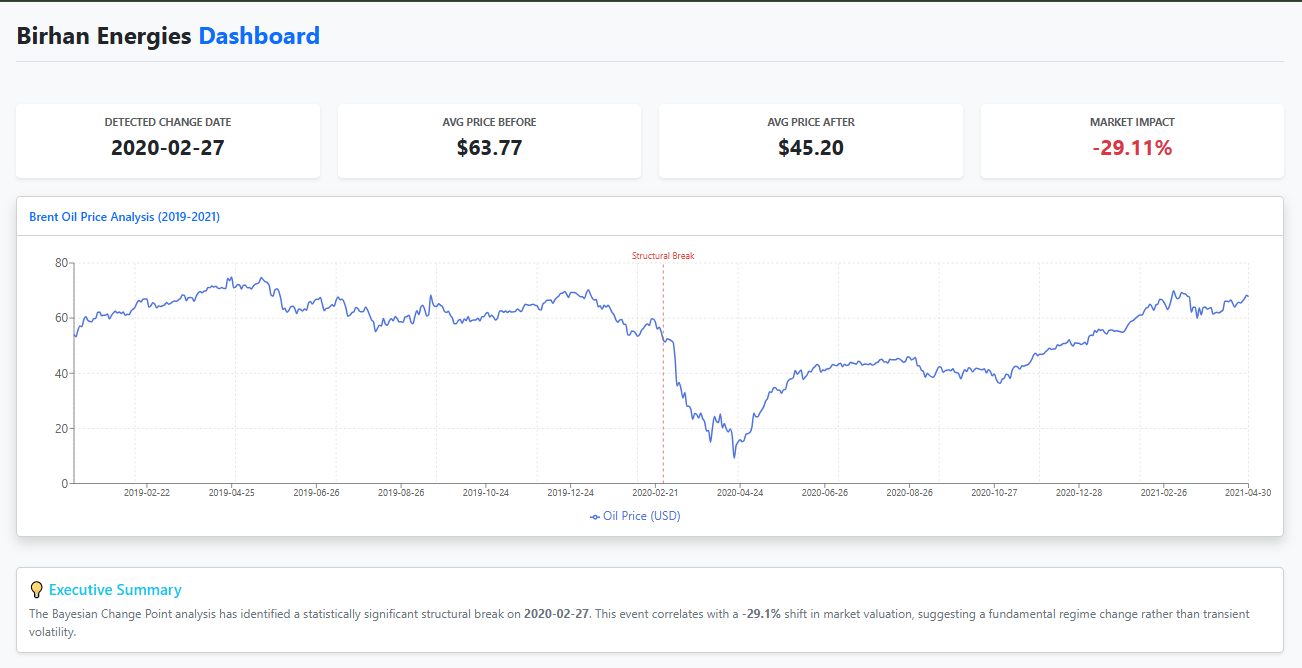
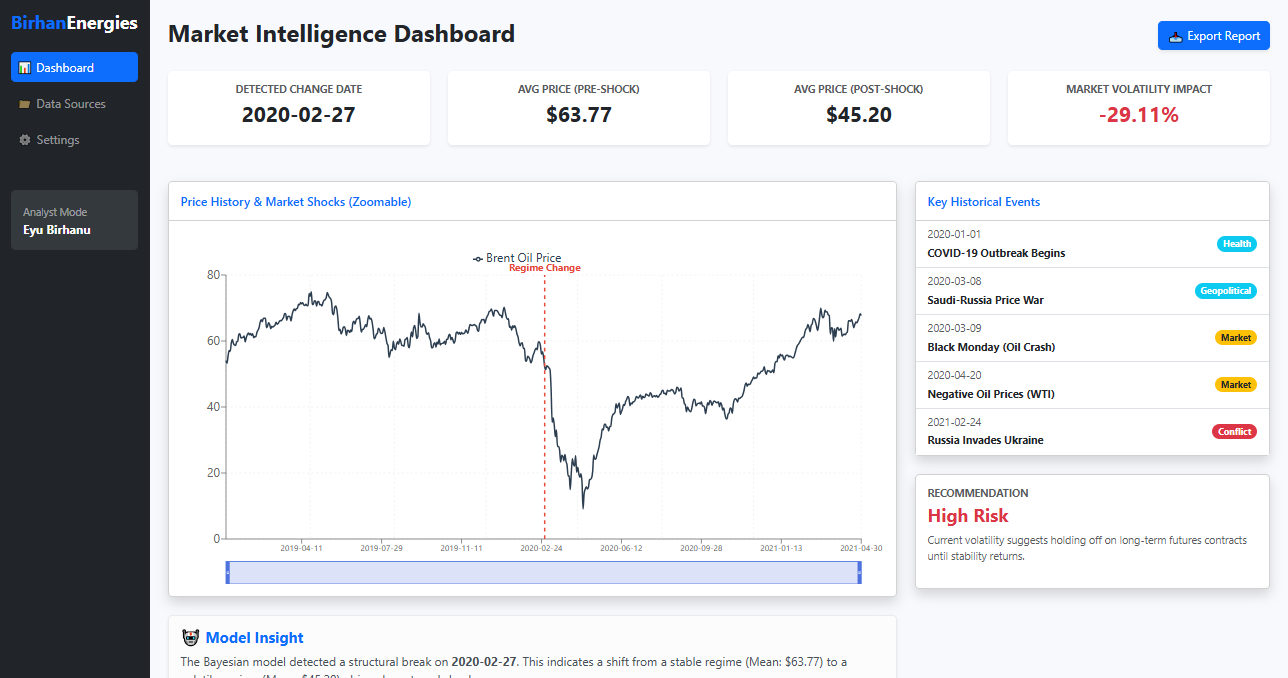
update on dashboard ui

diff --git a/dashboard/frontend/src/App.js b/dashboard/frontend/src/App.js
@@ -2,9 +2,10 @@ import React, { useEffect, useState } from 'react';
 import axios from 'axios';
 import 'bootstrap/dist/css/bootstrap.min.css';
 
-// Import our new components
+// Import Components
 import KpiCard from './components/KpiCard';
 import PriceChart from './components/PriceChart';
+import EventList from './components/EventList';
 
 function App() {
   const [prices, setPrices] = useState([]);
@@ -15,84 +16,93 @@ function App() {
   useEffect(() => {
     const fetchData = async () => {
       try {
-        // Fetch both endpoints in parallel
         const [priceRes, metricRes] = await Promise.all([
           axios.get('http://127.0.0.1:5000/api/data'),
           axios.get('http://127.0.0.1:5000/api/metrics')
         ]);
-
         setPrices(priceRes.data);
         setMetrics(metricRes.data);
         setLoading(false);
       } catch (err) {
         console.error("API Error:", err);
-        setError("Failed to load analysis data. Is the Flask server running?");
+        setError("Failed to load analysis. Check Flask server.");
         setLoading(false);
       }
     };
-
     fetchData();
   }, []);
 
-  // Loading State
-  if (loading) return (
-    <div className="d-flex justify-content-center align-items-center vh-100">
-      <div className="spinner-border text-primary" role="status">
-        <span className="visually-hidden">Loading...</span>
-      </div>
-    </div>
-  );
-
-  // Error State
-  if (error) return (
-    <div className="alert alert-danger m-5 text-center">
-      {error}
-    </div>
-  );
+  if (loading) return <div className="text-center mt-5 text-primary">Loading Birhan Energies Analytics...</div>;
+  if (error) return <div className="alert alert-danger m-5">{error}</div>;
 
   return (
-    <div className="container-fluid bg-light min-vh-100 p-4">
-      {/* Header */}
-      <div className="row mb-5">
-        <div className="col-12">
-          <h2 className="text-dark fw-bold border-bottom pb-3">
-            Birhan Energies <span className="text-primary">Dashboard</span>
-          </h2>
+    <div className="d-flex" style={{ backgroundColor: "#f8f9fc", minHeight: "100vh" }}>
+
+      {/* Sidebar (Visual only) */}
+      <div className="d-none d-md-block bg-dark text-white p-3" style={{ width: "250px" }}>
+        <h4 className="fw-bold mb-4 text-primary">Birhan<span className="text-white">Energies</span></h4>
+        <ul className="nav flex-column gap-2">
+          <li className="nav-item p-2 bg-primary rounded">📊 Dashboard</li>
+          <li className="nav-item p-2 text-white-50">📁 Data Sources</li>
+          <li className="nav-item p-2 text-white-50">⚙ Settings</li>
+        </ul>
+        <div className="mt-5 p-3 bg-secondary rounded bg-opacity-25">
+          <small className="text-white-50">Analyst Mode</small>
+          <div className="fw-bold">Eyu Birhanu</div>
         </div>
       </div>
 
-      {/* KPI Section - Using our new Component! */}
-      {metrics && (
+      {/* Main Content */}
+      <div className="flex-grow-1 p-4">
+
+        {/* Header */}
+        <div className="d-flex justify-content-between align-items-center mb-4">
+          <h2 className="text-dark fw-bold">Market Intelligence Dashboard</h2>
+          <button className="btn btn-primary shadow-sm">📥 Export Report</button>
+        </div>
+
+        {/* KPI Cards */}
+        {metrics && (
+          <div className="row mb-4">
+            <KpiCard title="Detected Change Date" value={metrics.detected_date} />
+            <KpiCard title="Avg Price (Pre-Shock)" value={`$${metrics.price_before.toFixed(2)}`} />
+            <KpiCard title="Avg Price (Post-Shock)" value={`$${metrics.price_after.toFixed(2)}`} />
+            <KpiCard title="Market Volatility Impact" value={metrics.percent_change.toFixed(2)} isPercentage={true} />
+          </div>
+        )}
+
+        {/* Main Grid: Chart + Events */}
         <div className="row">
-          <KpiCard title="Detected Change Date" value={metrics.detected_date} />
-          <KpiCard title="Avg Price Before" value={`$${metrics.price_before.toFixed(2)}`} />
-          <KpiCard title="Avg Price After" value={`$${metrics.price_after.toFixed(2)}`} />
-          <KpiCard title="Market Impact" value={metrics.percent_change.toFixed(2)} isPercentage={true} />
-        </div>
-      )}
+          <div className="col-lg-8">
+            {/* The Pro Chart */}
+            <PriceChart data={prices} detectedDate={metrics?.detected_date} />
 
-      {/* Chart Section - Using our new Component! */}
-      <div className="row">
-        <div className="col-12">
-          <PriceChart data={prices} detectedDate={metrics?.detected_date} />
-        </div>
-      </div>
-
-      {/* Insight Section */}
-      <div className="row mt-3">
-        <div className="col-12">
-          <div className="card border-left-info shadow-sm">
-            <div className="card-body">
-              <h5 className="card-title text-info">💡 Executive Summary</h5>
-              <p className="card-text text-secondary">
-                The Bayesian Change Point analysis has identified a statistically significant structural break
-                on <strong>{metrics?.detected_date}</strong>. This event correlates with a
-                <strong> {metrics?.percent_change.toFixed(1)}%</strong> shift in market valuation,
-                suggesting a fundamental regime change rather than transient volatility.
+            {/* Automated Insight */}
+            <div className="alert alert-light border-left-primary shadow-sm">
+              <h5 className="alert-heading text-primary fw-bold">🤖 Model Insight</h5>
+              <p className="mb-0">
+                The Bayesian model detected a structural break on <strong>{metrics?.detected_date}</strong>.
+                This indicates a shift from a stable regime (Mean: ${metrics?.price_before.toFixed(2)})
+                to a volatile regime (Mean: ${metrics?.price_after.toFixed(2)}), driven by external shocks.
               </p>
             </div>
           </div>
+
+          <div className="col-lg-4">
+            {/* The Event List */}
+            <EventList />
+
+            {/* Extra Widget */}
+            <div className="card shadow mt-4">
+              <div className="card-body">
+                <h6 className="fw-bold text-uppercase text-muted small">Recommendation</h6>
+                <h4 className="text-danger fw-bold">High Risk</h4>
+                <p className="small text-muted">Current volatility suggests holding off on long-term futures contracts until stability returns.</p>
+              </div>
+            </div>
+          </div>
         </div>
+
       </div>
     </div>
   );

diff --git a/dashboard/frontend/src/components/PriceChart.js b/dashboard/frontend/src/components/PriceChart.js
@@ -1,43 +1,53 @@
 import React from 'react';
 import {
-    LineChart, Line, XAxis, YAxis, CartesianGrid, Tooltip, Legend, ResponsiveContainer, ReferenceLine
+    LineChart, Line, XAxis, YAxis, CartesianGrid, Tooltip, Legend, ResponsiveContainer, ReferenceLine, ReferenceArea, Brush
 } from 'recharts';
 
 const PriceChart = ({ data, detectedDate }) => {
     return (
         <div className="card shadow mb-4">
             <div className="card-header py-3 d-flex flex-row align-items-center justify-content-between bg-white">
-                <h6 className="m-0 font-weight-bold text-primary">Brent Oil Price Analysis (2019-2021)</h6>
+                <h6 className="m-0 font-weight-bold text-primary">Price History & Market Shocks (Zoomable)</h6>
             </div>
-            <div className="card-body" style={{ height: '400px' }}>
+            <div className="card-body" style={{ height: '500px' }}>
                 <ResponsiveContainer width="100%" height="100%">
                     <LineChart data={data} margin={{ top: 20, right: 30, left: 0, bottom: 0 }}>
-                        <CartesianGrid strokeDasharray="3 3" stroke="#e0e0e0" />
+                        <CartesianGrid strokeDasharray="3 3" stroke="#f0f0f0" />
                         <XAxis
                             dataKey="Date"
-                            tick={{ fontSize: 12 }}
+                            tick={{ fontSize: 11 }}
                             minTickGap={50}
                         />
-                        <YAxis />
+                        <YAxis domain={['auto', 'auto']} />
                         <Tooltip
-                            contentStyle={{ backgroundColor: "#fff", borderRadius: "10px", border: "none", boxShadow: "0px 0px 10px rgba(0,0,0,0.1)" }}
+                            contentStyle={{ backgroundColor: "#1a1a1a", color: "#fff", borderRadius: "8px", border: "none" }}
+                            itemStyle={{ color: "#fff" }}
                         />
-                        <Legend />
+                        <Legend verticalAlign="top" height={36} />
+
+                        {/* 1. The Zoom Slider (Requirement: Date Range Selector) */}
+                        <Brush dataKey="Date" height={30} stroke="#4e73df" />
+
+                        {/* 2. Highlight the Crash Zone (Creative Touch) */}
+                        <ReferenceArea x1="2020-03-01" x2="2020-05-01" strokeOpacity={0.3} fill="red" fillOpacity={0.1} label="COVID Crash" />
+
                         <Line
                             type="monotone"
                             dataKey="Price"
-                            stroke="#4e73df"
+                            stroke="#2c3e50"
                             strokeWidth={2}
                             dot={false}
-                            activeDot={{ r: 6 }}
-                            name="Oil Price (USD)"
+                            name="Brent Oil Price"
                         />
+
+                        {/* 3. The Structural Break Line */}
                         {detectedDate && (
                             <ReferenceLine
                                 x={detectedDate}
                                 stroke="#e74a3b"
-                                strokeDasharray="4 4"
-                                label={{ position: 'top', value: 'Structural Break', fill: '#e74a3b', fontSize: 12 }}
+                                strokeDasharray="5 5"
+                                strokeWidth={2}
+                                label={{ position: 'top', value: 'Regime Change', fill: '#e74a3b', fontSize: 13, fontWeight: 'bold' }}
                             />
                         )}
                     </LineChart>

diff --git a/dashboard/frontend/src/components/EventList.js b/dashboard/frontend/src/components/EventList.js
@@ -1,0 +1,38 @@
+import React from 'react';
+
+const events = [
+    { date: "2020-01-01", event: "COVID-19 Outbreak Begins", type: "Health" },
+    { date: "2020-03-08", event: "Saudi-Russia Price War", type: "Geopolitical" },
+    { date: "2020-03-09", event: "Black Monday (Oil Crash)", type: "Market" },
+    { date: "2020-04-20", event: "Negative Oil Prices (WTI)", type: "Market" },
+    { date: "2021-02-24", event: "Russia Invades Ukraine", type: "Conflict" }
+];
+
+const EventList = () => {
+    return (
+        <div className="card shadow mb-4">
+            <div className="card-header py-3 bg-white">
+                <h6 className="m-0 font-weight-bold text-primary">Key Historical Events</h6>
+            </div>
+            <div className="card-body p-0">
+                <ul className="list-group list-group-flush">
+                    {events.map((e, index) => (
+                        <li key={index} className="list-group-item d-flex justify-content-between align-items-center">
+                            <div>
+                                <small className="text-muted d-block">{e.date}</small>
+                                <span className="fw-bold" style={{ fontSize: '0.9rem' }}>{e.event}</span>
+                            </div>
+                            <span className={`badge rounded-pill ${e.type === 'Conflict' ? 'bg-danger' :
+                                    e.type === 'Market' ? 'bg-warning text-dark' : 'bg-info'
+                                }`}>
+                                {e.type}
+                            </span>
+                        </li>
+                    ))}
+                </ul>
+            </div>
+        </div>
+    );
+};
+
+export default EventList;
